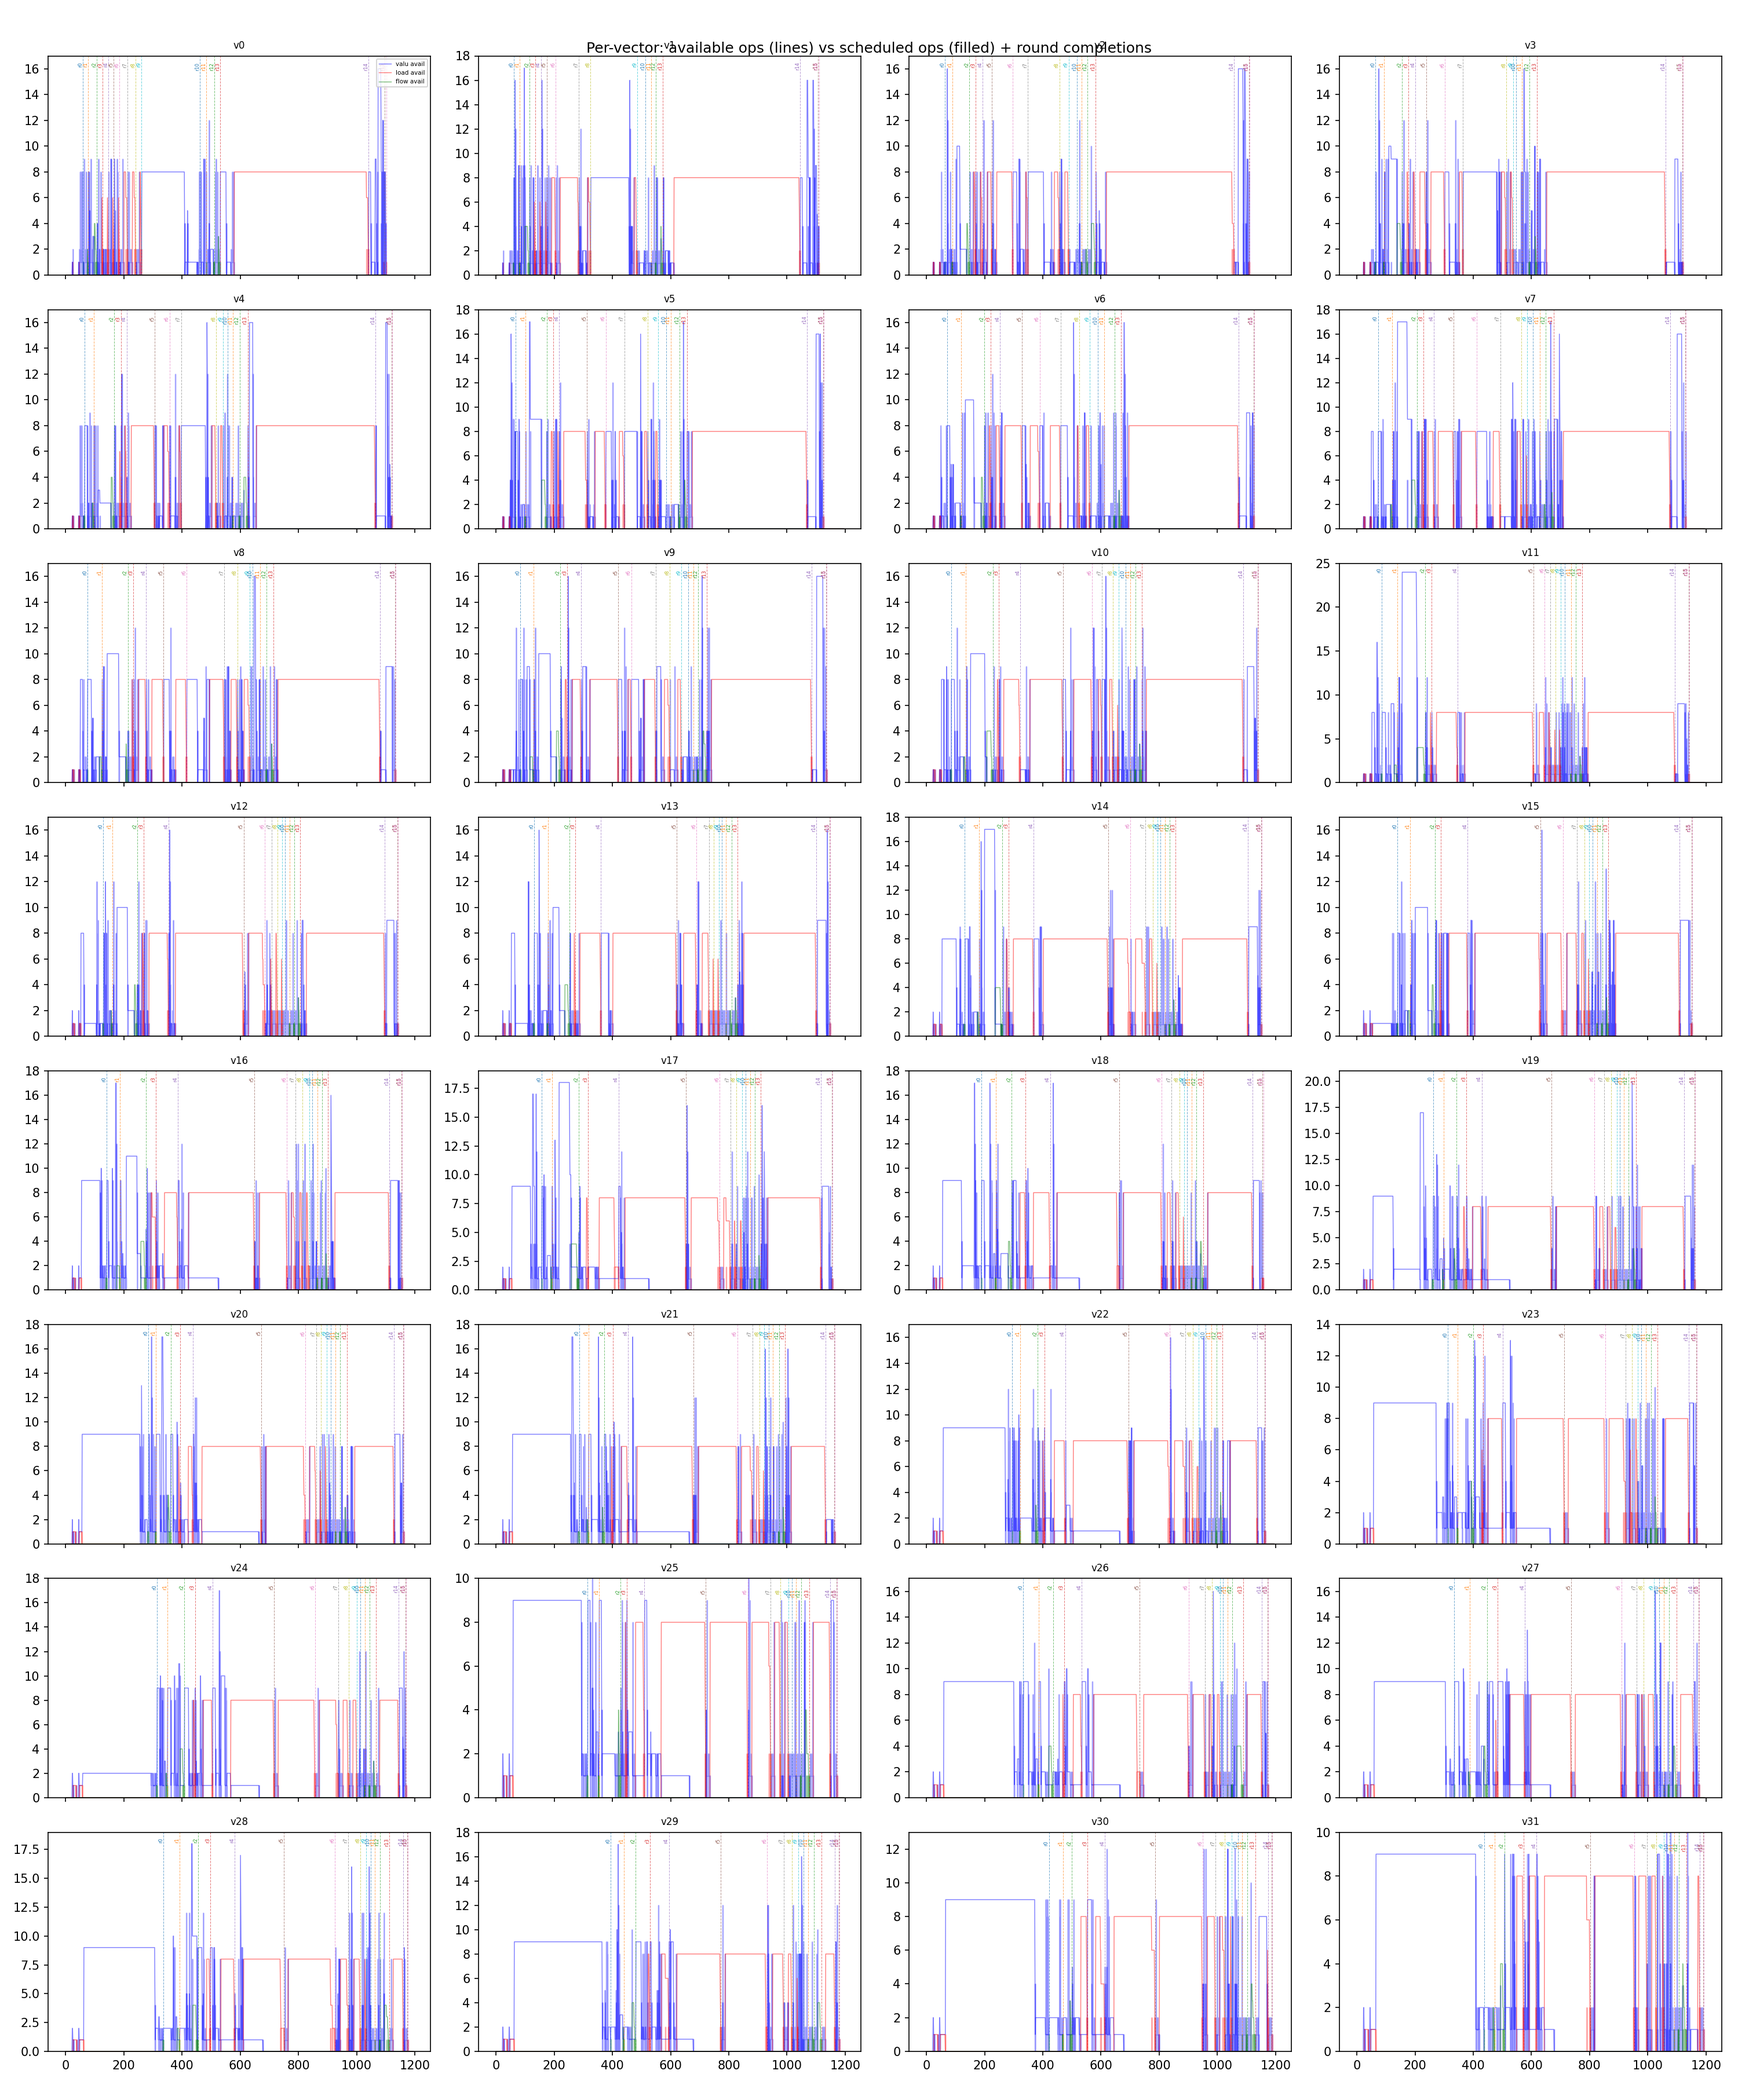
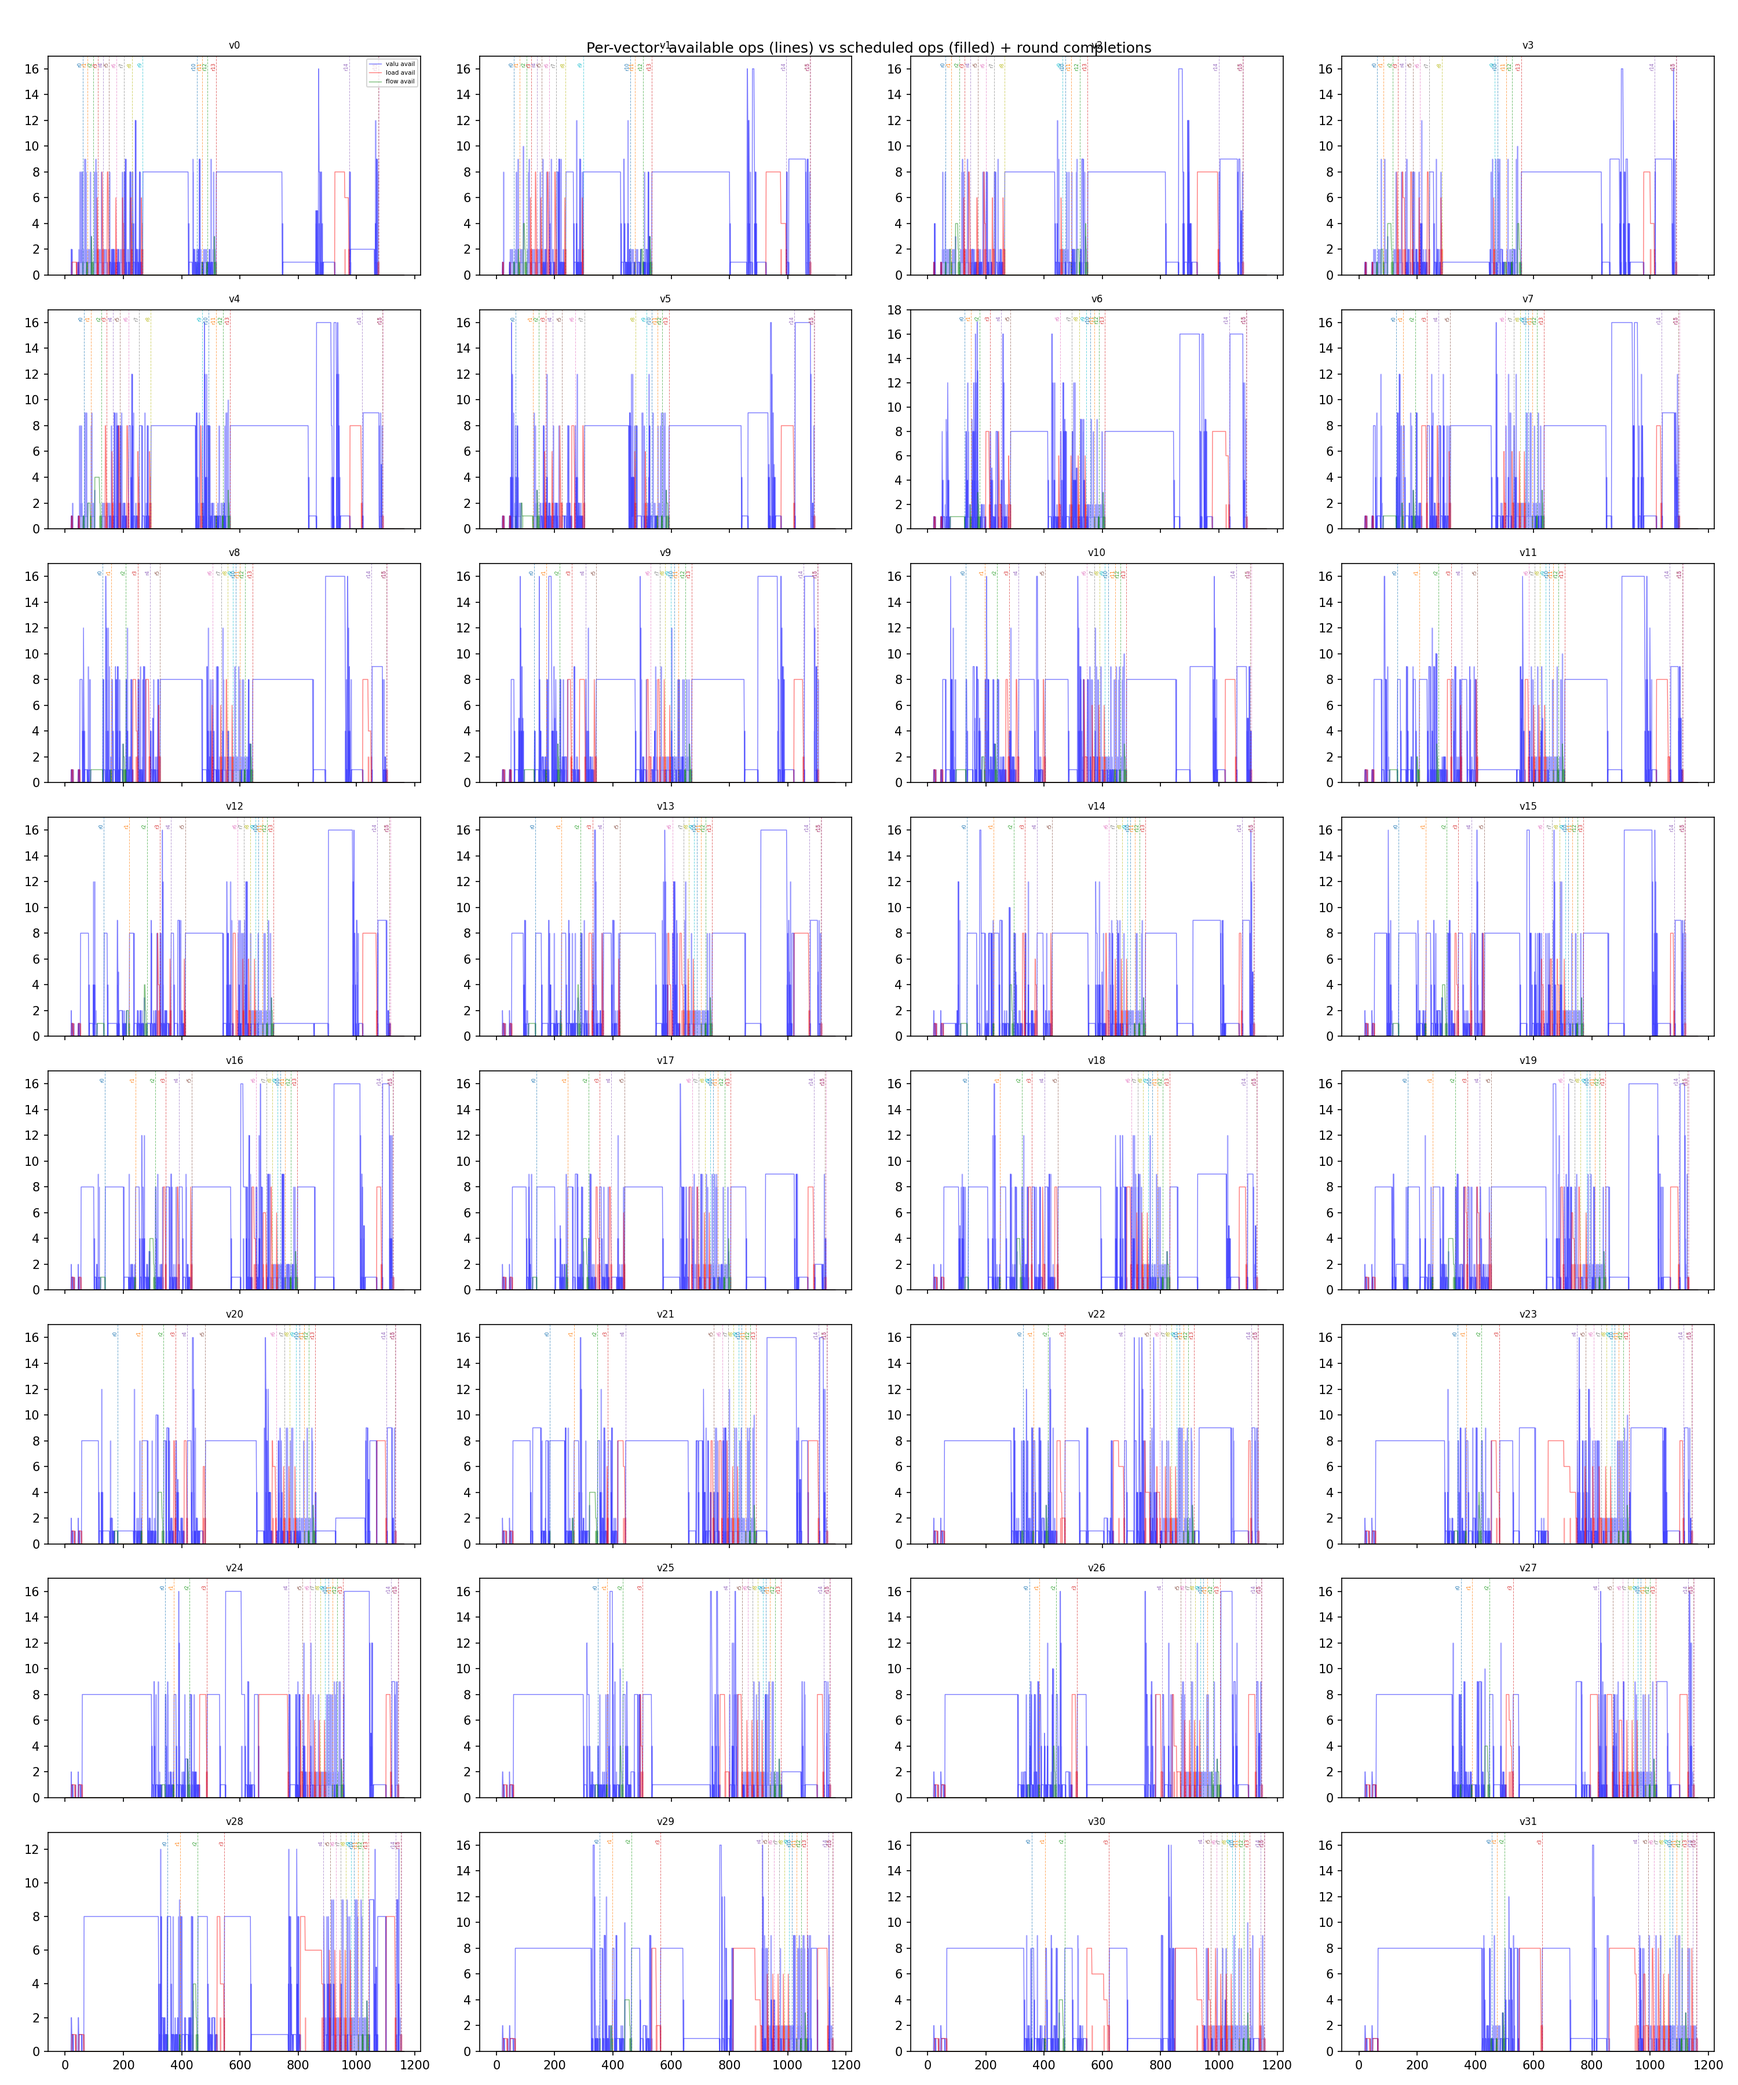
use number of remaining ops instead of bfs distance, 1164

diff --git a/perf_takehome.py b/perf_takehome.py
@@ -513,7 +513,7 @@ def schedule(slots, slot_limits, allocator, tags=None):
                 remaining_to_flow.get(target_flow[i], n),
             )
         rnd = op_rnd[i] if active_metric == "load" else 0
-        return (d, sort_key(i), i)
+        return (r, d, sort_key(i), i)
 
     ready = sorted([i for i in range(n) if in_degree[i] == 0], key=sched_key)
     bundles = []
@@ -557,6 +557,7 @@ def schedule(slots, slot_limits, allocator, tags=None):
         available = dict(slot_limits)
         scheduled_this_cycle = []
         remaining = []
+        deferred_flex = []
         pending_frees = []
 
         def mark_scheduled(i):
@@ -629,9 +630,9 @@ def schedule(slots, slot_limits, allocator, tags=None):
         # Adaptive starvation: bias remaining-preds metric toward starved resource
         n_ready_loads = sum(1 for i in ready if slots[i][0] == "load")
         n_ready_flows = sum(1 for i in ready if slots[i][0] == "flow")
-        load_starved = n_ready_loads < 5
-        flow_starved = n_ready_flows < slot_limits.get("flow", 1) #and not load_starved 
-        if flow_starved:
+        load_starved = n_ready_loads < 6
+        flow_starved = n_ready_flows < slot_limits.get("flow", 1) and not load_starved
+        if n_ready_loads > 14 or flow_starved:
             active_metric = "flow"
         else:
             active_metric = "load"
@@ -651,8 +652,8 @@ def schedule(slots, slot_limits, allocator, tags=None):
             if engine == "flex_alu_add":
                 # flex_alu_add: scalar add emitted as alu, args trimmed to drop imm
                 if available.get("alu", 0) <= 0:
-                    remaining.append(i)
-                    stall_slot += 1
+                    # Defer — might promote to flow after main loop
+                    deferred_flex.append(i)
                     continue
                 if not try_alloc_or_reuse(i):
                     remaining.append(i)
@@ -725,6 +726,23 @@ def schedule(slots, slot_limits, allocator, tags=None):
                 else:
                     partial_ops[i] = can_do
 
+        # Deferred flex_alu_add → flow promotion (add_imm)
+        for i in deferred_flex:
+            if available.get("flow", 0) > 0:
+                if not try_alloc_or_reuse(i):
+                    remaining.append(i)
+                    stall_alloc += 1
+                    continue
+                physical_args = allocator.rewrite_args(slots[i][1])
+                # flex_alu_add args: ("+", dest, src, offset_vreg, offset_imm)
+                # flow add_imm: ("add_imm", dest, src, imm)
+                imm = slots[i][1][4]  # grab imm before rewrite (it's a plain int)
+                emit(("flow", ("add_imm", physical_args[1], physical_args[2], imm)), i)
+                available["flow"] -= 1
+            else:
+                remaining.append(i)
+                stall_slot += 1
+
         allocator.track_peak(cycle_num)
 
         for vreg in pending_frees:
@@ -776,10 +794,29 @@ def schedule(slots, slot_limits, allocator, tags=None):
                 engines = Counter(slots[i][0] for i in ready)
                 print(f"  DEADLOCK cycle={cycle_num}: {len(ready)} ready, {len(gated)} gated, {len(not_gated)} not gated")
                 print(f"  Engines: {dict(engines)}, Scratch: {allocator.current_usage()}/{allocator.scratch_size}")
+                print(f"  Active metric: {active_metric}")
                 print(f"  Active set ({len(active_set)}): {sorted(active_set)}")
-                for i in not_gated[:10]:
-                    defs = [(v.name_hint, v.size) for v in slot_defs[i] if isinstance(v, VReg)]
-                    print(f"    op {i}: {op_desc(i)} vi={op_vi[i]} rnd={op_rnd[i]} engine={slots[i][0]} defs={defs}")
+                # Classify why each not-gated op failed
+                reasons = Counter()
+                for i in not_gated:
+                    eng = slots[i][0]
+                    can_native = available.get(eng, 0) > 0
+                    can_promo = (eng == "valu" and slots[i][1][0] not in ("vbroadcast", "multiply_add") and available.get("alu", 0) > 0)
+                    if not can_native and not can_promo:
+                        reasons["no_slot"] += 1
+                    else:
+                        reasons["alloc_fail"] += 1
+                print(f"  Failure reasons: {dict(reasons)}")
+                # Show rounds of not-gated ops
+                rnd_counts = Counter(op_rnd[i] for i in not_gated)
+                print(f"  Rounds of stuck ops: {dict(sorted(rnd_counts.items()))}")
+                vi_counts = Counter(op_vi[i] for i in not_gated)
+                print(f"  Vectors of stuck ops: {dict(sorted(vi_counts.items()))}")
+                # Show sample ops with allocation details
+                for i in not_gated[:15]:
+                    defs = [(v.name_hint, v.size) for v in slot_defs[i] if isinstance(v, VReg) and v.pinned_addr is None]
+                    uses = [(resolve_parent(v).name_hint, remaining_uses.get(resolve_parent(v), 0)) for v in slot_uses[i] if isinstance(resolve_parent(v), VReg) and resolve_parent(v).pinned_addr is None]
+                    print(f"    op {i}: {op_desc(i)} vi={op_vi[i]} rnd={op_rnd[i]} engine={slots[i][0]} defs={defs} uses_remaining={uses}")
                 raise RuntimeError(
                     f"Scheduler deadlock: {len(ready)} ready ops but none schedulable."
                 )
